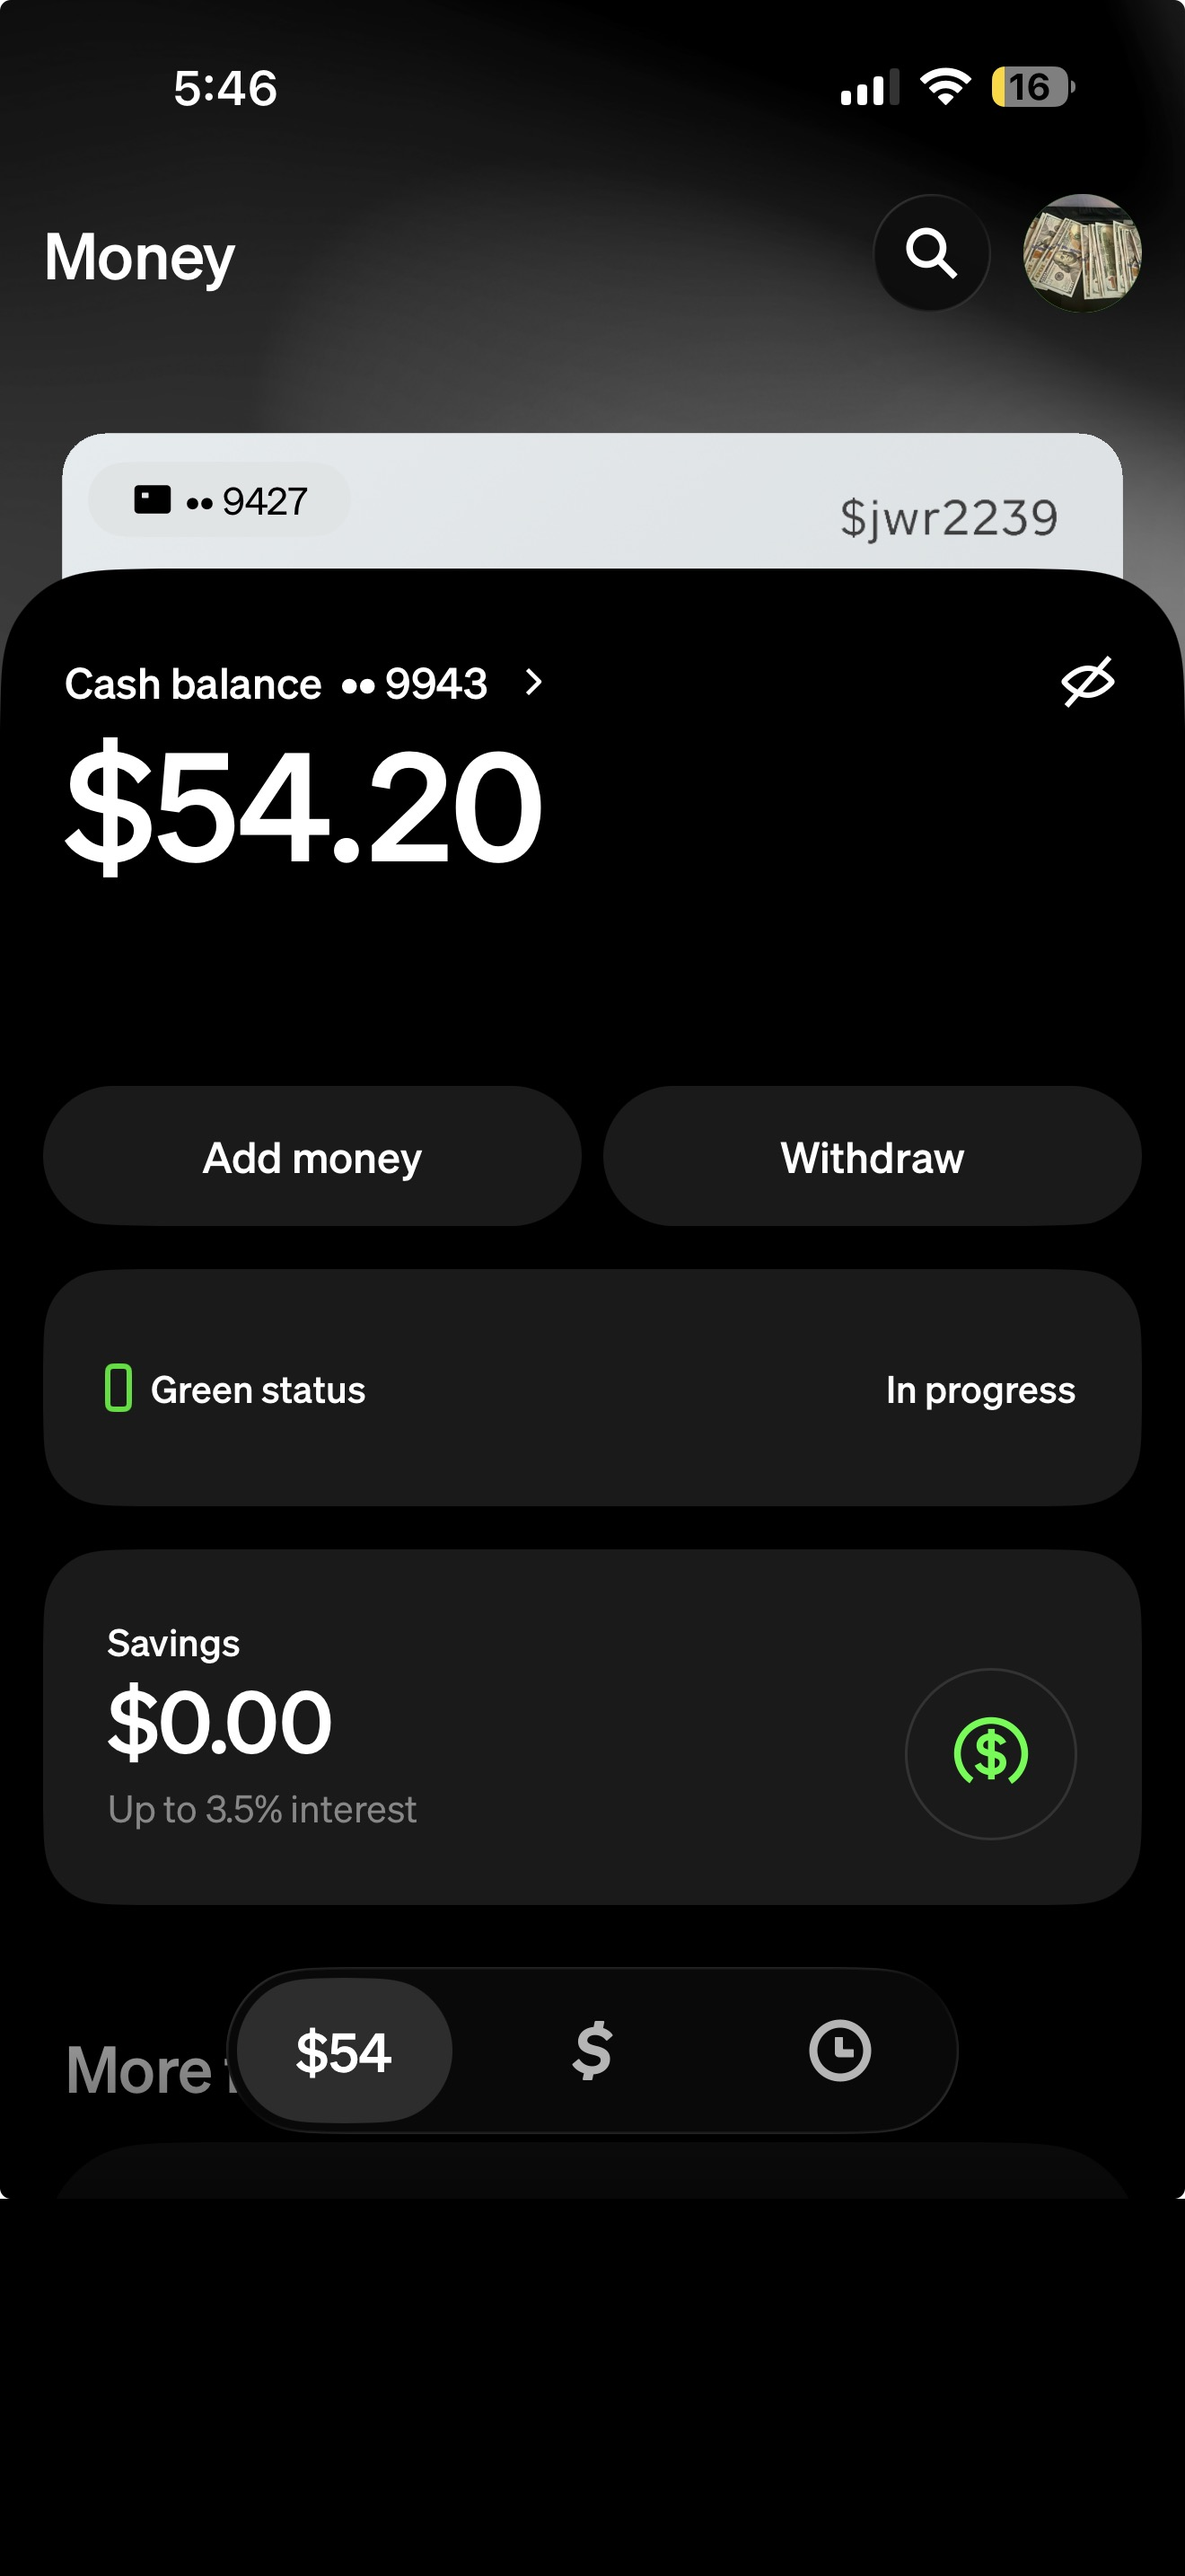
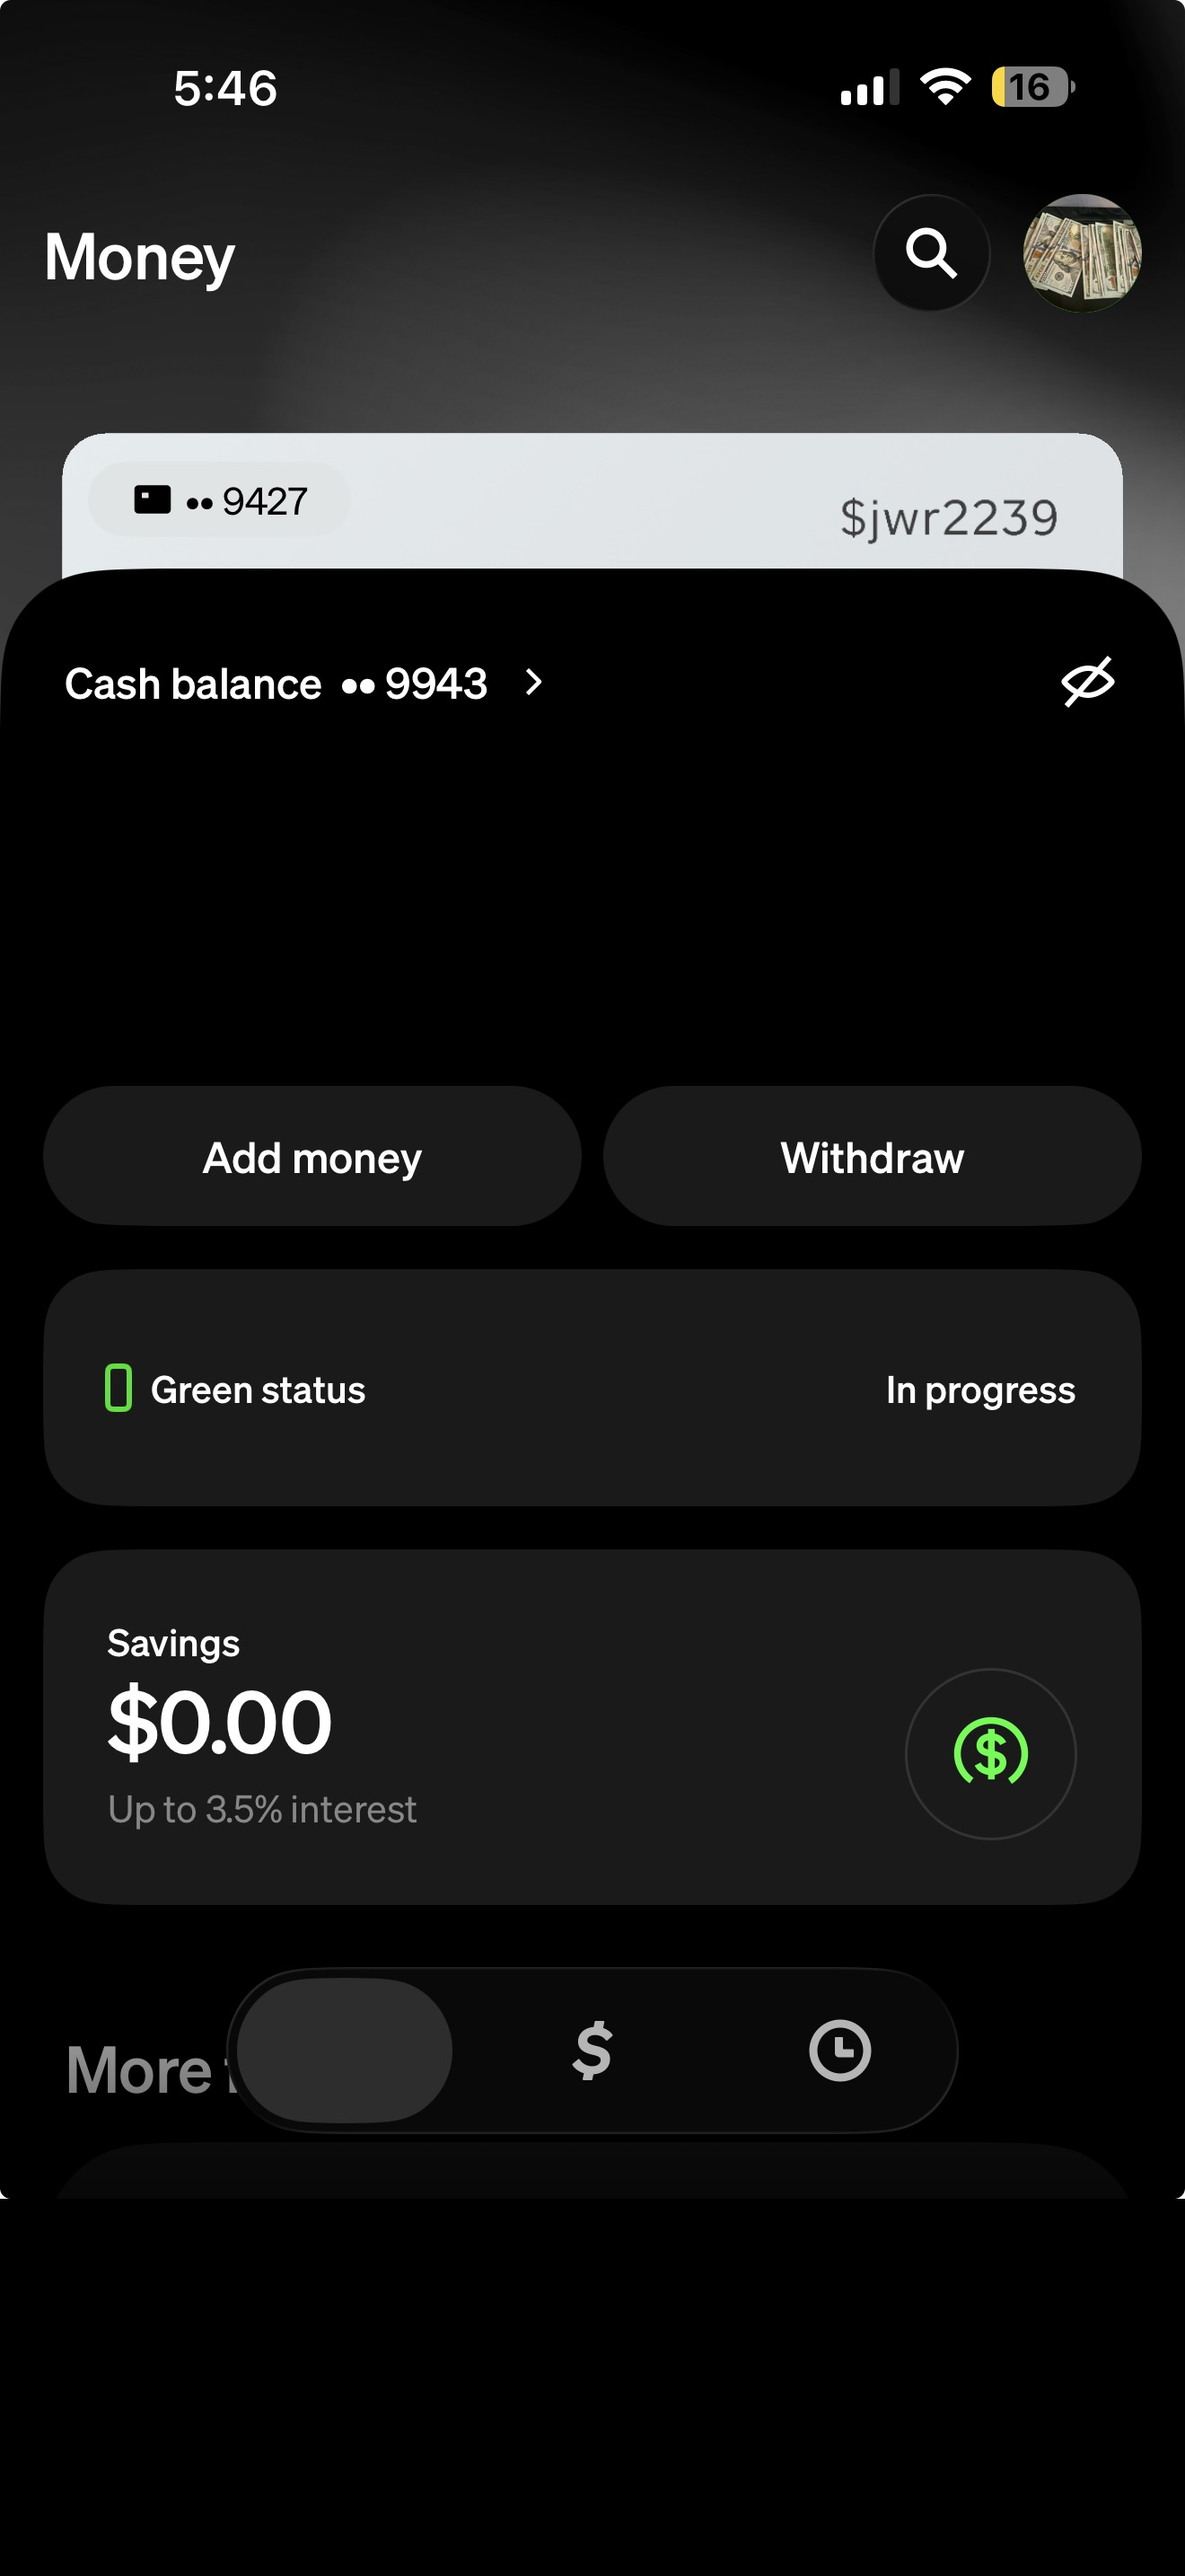
Cash App: make balance editable via 3s long-press (#116)
Erase the baked-in "\$54.20"/"\$54" text and overlay it as live DOM
text instead, positioned/sized to pixel-match the original artwork.
Holding the balance for 3 seconds switches it into an editable
input (pre-filled and selected); committing updates both the main
balance and the dock shortcut button, and persists to localStorage.

Claude-Session: https://claude.ai/code/session_016T1Jkd3oEQVgMye4WzvXzJ

Changed region(s): [[0.0621, 0.2793, 0.4659, 0.3414], [0.2485, 0.7758, 0.3417, 0.8068]]

diff --git a/cashapp/index.html b/cashapp/index.html
@@ -12,11 +12,20 @@
 <style>
 html,body{height:var(--app-h,100%);overflow:hidden;margin:0;background:#000;touch-action:manipulation;-webkit-text-size-adjust:100%;overscroll-behavior:none}
 .wrap{position:fixed;top:0;left:0;right:0;height:var(--app-h,100%);margin:0;overflow:hidden;display:flex;align-items:center;justify-content:center}
-.ui{position:relative;width:100%;max-width:620px;aspect-ratio:1320/2868;flex:none;overflow:hidden;background:center/100% 100% no-repeat url(money.png)}
+.ui{position:relative;width:100%;max-width:620px;aspect-ratio:1320/2868;flex:none;overflow:hidden;container-type:inline-size;background:center/100% 100% no-repeat url(money.png)}
+.amt{position:absolute;left:5.45%;top:31.42%;transform:translateY(-50%);font-family:"Helvetica Neue",Arial,sans-serif;font-weight:800;color:#fff;font-size:14.9cqw;line-height:1;white-space:nowrap;-webkit-user-select:none;user-select:none;cursor:pointer}
+.amt.editing{-webkit-user-select:text;user-select:text}
+.dock{position:absolute;left:28.98%;top:79.71%;transform:translate(-50%,-50%);font-family:"Helvetica Neue",Arial,sans-serif;font-weight:700;color:#fff;font-size:5.83cqw;line-height:1;white-space:nowrap;pointer-events:none}
+.amtin{position:absolute;left:5.45%;top:31.42%;transform:translateY(-50%);font-family:"Helvetica Neue",Arial,sans-serif;font-weight:800;color:#fff;font-size:14.9cqw;line-height:1;background:transparent;border:0;outline:0;padding:0;width:70%;display:none}
+.amt.hold{opacity:.45;transition:opacity 3s linear}
 </style>
 </head>
 <body>
-<div class="wrap"><div class="ui"></div></div>
+<div class="wrap"><div class="ui" id="ui">
+<span class="amt" id="amt">$54.20</span>
+<input class="amtin" id="amtin" inputmode="decimal">
+<span class="dock" id="dock">$54</span>
+</div></div>
 <script>
 (function(){
 function AH(){var h=innerHeight;try{var sa=navigator.standalone===true||(matchMedia&&matchMedia('(display-mode: standalone)').matches);if(sa&&innerHeight>innerWidth)h=Math.max(h,screen.height||0,(visualViewport&&visualViewport.height)||0)}catch(e){}document.documentElement.style.setProperty('--app-h',h+'px');return h}
@@ -31,6 +40,47 @@ document.addEventListener('gesturechange',function(e){e.preventDefault()},{passi
 document.addEventListener('touchmove',function(e){if(e.touches.length>1)e.preventDefault()},{passive:false});
 var lastTouchEnd=0;
 document.addEventListener('touchend',function(e){var now=Date.now();if(now-lastTouchEnd<=300)e.preventDefault();lastTouchEnd=now},{passive:false});
+
+var amt=document.getElementById('amt'),amtin=document.getElementById('amtin'),dock=document.getElementById('dock');
+var bal=54.20;
+try{var saved=localStorage.getItem('cashapp_balance');if(saved!==null&&!isNaN(parseFloat(saved)))bal=parseFloat(saved)}catch(e){}
+function render(){amt.textContent='$'+bal.toFixed(2);dock.textContent='$'+Math.round(bal)}
+render();
+
+var holdTimer=null;
+function startHold(){
+  cancelHold();
+  amt.classList.add('hold');
+  holdTimer=setTimeout(function(){
+    amt.classList.remove('hold');
+    enterEdit();
+  },3000);
+}
+function cancelHold(){
+  if(holdTimer){clearTimeout(holdTimer);holdTimer=null}
+  amt.classList.remove('hold');
+}
+function enterEdit(){
+  amtin.value=bal.toFixed(2);
+  amt.style.display='none';
+  amtin.style.display='block';
+  amtin.focus();
+  amtin.select();
+}
+function commitEdit(){
+  var v=parseFloat(amtin.value);
+  if(!isNaN(v)&&v>=0)bal=Math.round(v*100)/100;
+  amtin.style.display='none';
+  amt.style.display='';
+  render();
+  try{localStorage.setItem('cashapp_balance',bal)}catch(e){}
+}
+amt.addEventListener('pointerdown',startHold);
+amt.addEventListener('pointerup',cancelHold);
+amt.addEventListener('pointerleave',cancelHold);
+amt.addEventListener('pointercancel',cancelHold);
+amtin.addEventListener('blur',commitEdit);
+amtin.addEventListener('keydown',function(e){if(e.key==='Enter'){e.preventDefault();amtin.blur()}});
 })();
 </script>
 </body></html>
